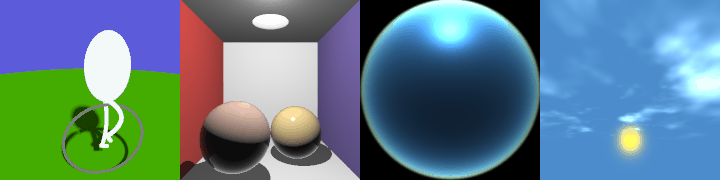
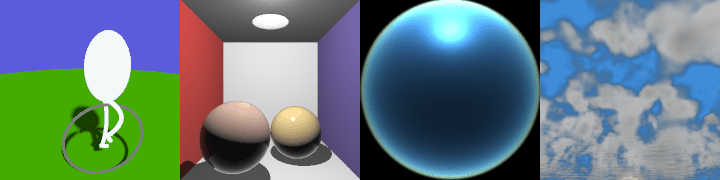
new cloud pic; sync readme's

Changed region(s): [[0.7333, 0.0, 1.0, 1.0]]

diff --git a/index.html b/index.html
@@ -1,5 +1,5 @@
 # [SHADER BOX](https://github.com/valentingalea/shaderbox)
-![Snapshot of the apps](apps.png)
+![snapshot of apps](http://valentingalea.github.io/shaderbox/apps.png)
 
 Various experiments with raytracing and
 raymarching done only in pixel (fragment) shaders.
@@ -7,19 +7,26 @@ raymarching done only in pixel (fragment) shaders.
 Written in GLSL but supports C++ and HLSL
 using preprocessor macro tricks.
 The C++11 work is made possible by the
-wonderful [CxxSwizzle library](https://github.com/gwiazdorrr/CxxSwizzle).
+wonderful CxxSwizzle library.
+(https://github.com/gwiazdorrr/CxxSwizzle)
 
 ## Projects
 The various submodules are enabled via global defines:
 
 Project define | Description                                        | Live on shadertoy.com
 ---------------|----------------------------------------------------|-------------------------
-APP_EGG        | signed distance field raymarcher animation         | <https://www.shadertoy.com/view/MlsGDf>
-APP_RAYTRACER  | simple PBR raytracer with reflection               | <https://www.shadertoy.com/view/Xl2XW1>
-APP_SDF_AO     | test for ambient occlusion with distance fields    | <https://www.shadertoy.com/view/XtBGDW>
+APP_EGG        | signed distance field raymarcher animation         | https://www.shadertoy.com/view/MlsGDf
+APP_RAYTRACER  | simple PBR raytracer with reflection               | https://www.shadertoy.com/view/Xl2XW1
+APP_SDF_AO     | test for ambient occlusion with distance fields    | https://www.shadertoy.com/view/XtBGDW
 APP_2D         | old-skool demoscene tunnel effect                  |
-APP_ATMOSPHERE | study of Rayleigh/Mie air scattering               | <https://www.shadertoy.com/view/XtBXDz>
-APP_CLOUDS     | study of volumetric clouds                         | <https://www.shadertoy.com/view/XtBXDw>
+APP_ATMOSPHERE | study of Rayleigh/Mie air scattering               | https://www.shadertoy.com/view/XtBXDz
+APP_CLOUDS     | study of volumetric clouds                         | https://www.shadertoy.com/view/XtBXDw
+
+## Support
+* Visual Studio C++ 2015. Has a dependency on SDL 1.2 (included).
+* [C4droid](https://play.google.com/store/apps/details?id=com.n0n3m4.droidc&hl=en_GB) on Android.
+* any GLSL ES environment. Tested on [Shadertoy](https://www.shadertoy.com/) and [GLSL Sandbox](http://glslsandbox.com/).
+* any DirectX 11 HLSL environment. Tested with included hlsltoy utility.
 
 ## Features
 Over time various things were added and some
@@ -31,6 +38,15 @@ can be extracted and used separately.
 * 2D two bone IK solver
 * a library of different noise functions
 * Rayleigh/Mie atmospheric scattering solver
-* a bare-bones #include expander utility to compose files
+* primitive animated GIF output
+
+## Utilities
+The util/ folder contains separate, independent projects:
+
+Project   | Description
+----------|-----------------------------------------------------------------------------------
+inclxpnd  | a bare-bones #include expander utility to compose files
+hlsltoy   | minimal one-file DX 11 framework that runs a fullscreen pixel shader
+
 
 <style class="fallback">body{white-space:pre;font-family:monospace}</style><script src="markdeep.min.js"></script><script src="http://casual-effects.com/markdeep/latest/markdeep.min.js"></script> 
